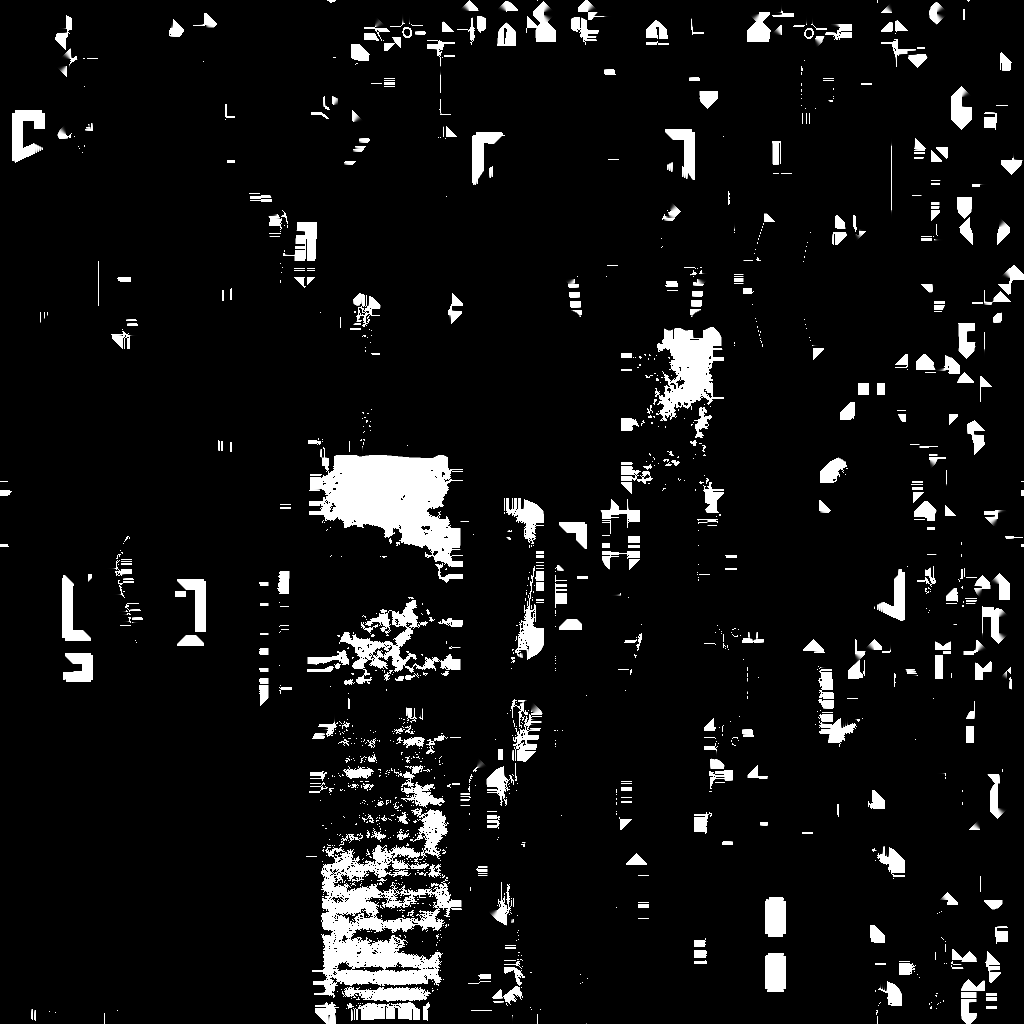
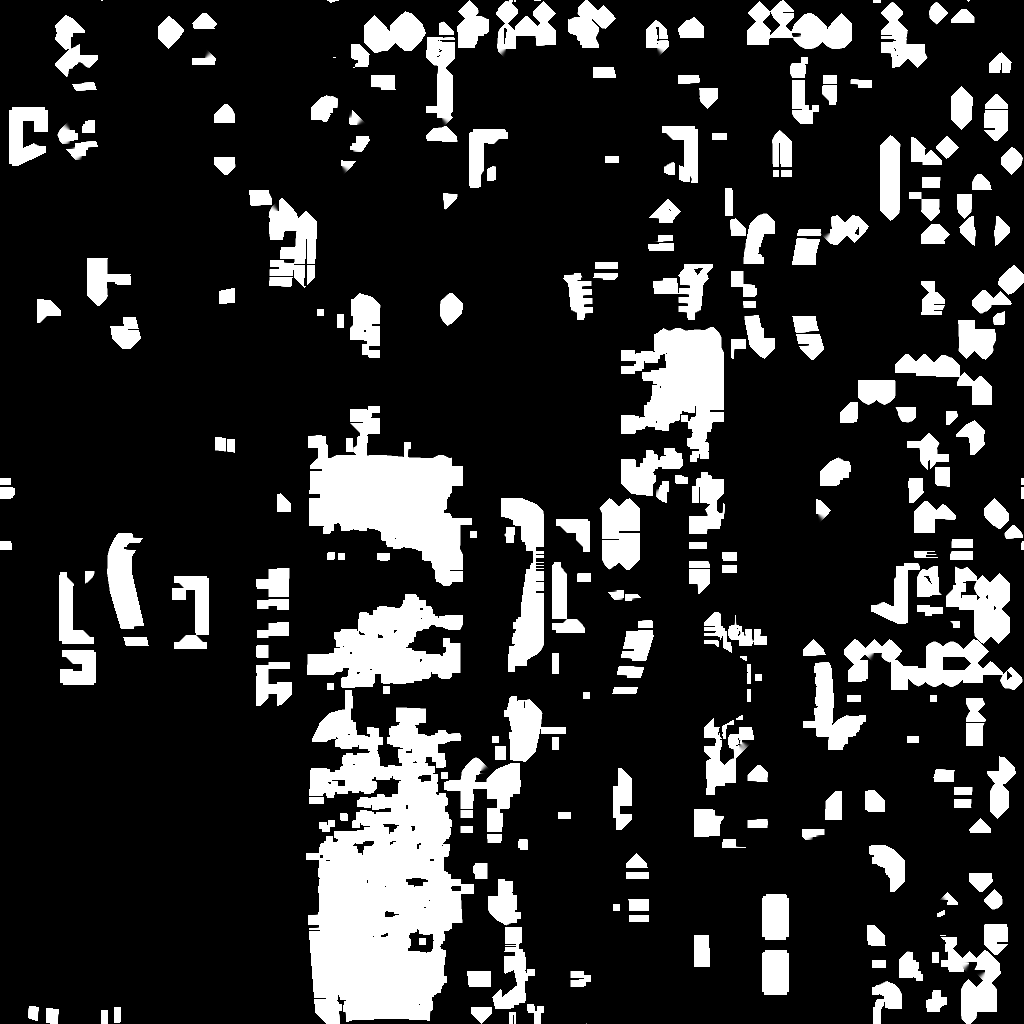
context: 11.10 — подготовка выпуска 0.4.0: смартфон, кнопки, слоты оружия, проверка цепочки заданий, маска облезлости УАЗа, освещение

diff --git a/assets/scientist_base/_work/uazkit_14_peel.py b/assets/scientist_base/_work/uazkit_14_peel.py
@@ -45,6 +45,39 @@ keep = panel & ~lamp & ~white & ~gap
 print('PEEL painted panels: %d of %d sheet-metal triangles (paint on at least %d %% of the face), %d of %d texels; left out as lamps %d, white marks %d, black gaps %d texels' % (
     int(panel_face.sum()), int((nop == 0).sum()), SHARE * 100, int(panel.sum()), int(sheet_m.sum()), int((panel & lamp & (alpha < 0.5)).sum()), int((panel & white & (alpha < 0.5)).sum()), int((panel & gap & (alpha < 0.5)).sum())))
 peel = np.where(keep, 1.0 - alpha, 0.0).astype(np.float32)
+# 11.10: the border of every peeled zone stayed visible at PaintPeel = 0 (light outline). The colour texture has a light rim of chipped paint
+# and a soft alpha edge around each zone, and the mask ended exactly on it. The mask is grown by GROW texels so that the rim is inside the zone.
+GROW = 3
+_bc = np.array(json.load(open(sb.WORK + '_uazkit_meta.json'))['body_color'])[:3]
+def _seam(pm, tag):
+    cur = rgb * (1.0 + (_bc[None, None] - 1.0) * alpha[..., None]); res0 = cur * (1 - pm[..., None]) + (_bc * 0.68)[None, None] * pm[..., None]
+    lum = res0.mean(2); ref = float(np.median(lum[panel & (alpha > 0.99)])); zone = panel & ~lamp & ~gap
+    near = np.zeros_like(panel)
+    for dy in range(-6, 7):
+        for dx in range(-6, 7):
+            near |= np.roll(peel > 0.5, (dy, dx), (0, 1))
+    band = zone & near
+    print('SEAM %s: at PaintPeel 0 median paint brightness %.3f; texels within 6 of a peeled zone %d, brighter than 1.4 x median %d, brighter than 1.8 x median %d; mean brightness there %.3f' % (
+        tag, ref, int(band.sum()), int((band & (lum > 1.4 * ref)).sum()), int((band & (lum > 1.8 * ref)).sum()), float(lum[band].mean())))
+    # the game samples smaller copies of the textures (mips) from the top-down camera: average blocks of texels and repeat the count
+    for lv in (1, 2, 3):
+        s = 2 ** lv; bx = lambda a: a.reshape(TEX // s, s, TEX // s, s, -1).mean((1, 3))
+        r_, a_, p_, z_ = bx(rgb), bx(alpha)[..., 0], bx(pm)[..., 0], bx(zone.astype(np.float32))[..., 0] > 0.999
+        for k in (1.0, 4.0):
+            q = np.clip(p_ * k, 0, 1); c_ = r_ * (1.0 + (_bc[None, None] - 1.0) * a_[..., None])
+            l_ = (c_ * (1 - q[..., None]) + (_bc * 0.68)[None, None] * q[..., None]).mean(2)
+            print('SEAM %s: copy 1/%d, mask gain %.0f: texels of painted panels %d, brighter than 1.4 x median %d, 1.8 x %d, brightest %.2f x' % (
+                tag, s, k, int(z_.sum()), int((z_ & (l_ > 1.4 * ref)).sum()), int((z_ & (l_ > 1.8 * ref)).sum()), float(l_[z_].max() / ref) if z_.any() else 0))
+_seam(peel, 'before')
+_g = peel.copy()
+for _ in range(GROW):
+    _n = _g.copy()
+    for dy in (-1, 0, 1):
+        for dx in (-1, 0, 1):
+            _n = np.maximum(_n, np.roll(_g, (dy, dx), (0, 1)))
+    _g = _n
+peel = np.where(panel & ~lamp & ~gap, _g, peel).astype(np.float32)
+_seam(peel, 'after grow %d' % GROW)
 other = other | (sheet_m & ~panel)
 sheet_all = sheet_m; sheet_m = panel
 # the same border padding as the colour texture has: no dark or light seams when the game samples between texels

diff --git a/scripts/ue-remote/uaz_peel_mask_1011_headless.py b/scripts/ue-remote/uaz_peel_mask_1011_headless.py
@@ -1,0 +1,11 @@
+import unreal
+eal = unreal.EditorAssetLibrary; at = unreal.AssetToolsHelpers.get_asset_tools(); mel = unreal.MaterialEditingLibrary
+D = '/Game/Environment/Props/UAZ452'
+t = unreal.AssetImportTask()
+for k, v in [('filename', 'E:/game-dev-team/assets/scientist_base/SM_UAZ452_kit/T_UAZ452Kit_Peel.png'), ('destination_path', D), ('destination_name', 'T_UAZ452Kit_Peel'), ('replace_existing', True), ('automated', True), ('save', False)]: t.set_editor_property(k, v)
+at.import_asset_tasks([t]); tex = unreal.load_asset(D + '/T_UAZ452Kit_Peel')
+tex.set_editor_property('srgb', True); tex.set_editor_property('compression_settings', unreal.TextureCompressionSettings.TC_DEFAULT)
+mi = unreal.load_asset(D + '/MI_UAZ452Kit')
+print('set', mel.set_material_instance_texture_parameter_value(mi, 'PeelMask', tex), mel.set_material_instance_scalar_parameter_value(mi, 'PaintBase', 0.68))
+mel.update_material_instance(mi)
+print('SAVE', eal.save_loaded_asset(tex, False), eal.save_loaded_asset(mi, False), 'mask', mel.get_material_instance_texture_parameter_value(mi, 'PeelMask').get_name(), 'peel', mel.get_material_instance_scalar_parameter_value(mi, 'PaintPeel'))

diff --git a/scripts/ue-remote/release_check_1011.py b/scripts/ue-remote/release_check_1011.py
@@ -1,0 +1,13 @@
+import unreal, glob
+out = []
+for p in ['/Game/System/BP_ContrarySurviorPlayerController']:
+    if unreal.EditorAssetLibrary.does_asset_exist(p):
+        c = unreal.load_object(None, p + '.' + p.split('/')[-1] + '_C'); d = unreal.get_default_object(c)
+        out.append('CTRL %s radius=%s gap=%s' % (p, d.get_editor_property('PdaTouchButtonRadius'), d.get_editor_property('PdaTouchButtonGap')))
+w = unreal.get_editor_subsystem(unreal.UnrealEditorSubsystem).get_editor_world()
+out.append('WORLD %s PIE %s' % (w.get_name(), unreal.get_editor_subsystem(unreal.LevelEditorSubsystem).is_in_play_in_editor()))
+for a in unreal.get_editor_subsystem(unreal.EditorActorSubsystem).get_all_level_actors():
+    if 'UAZ' in a.get_actor_label().upper() or 'УАЗ' in a.get_actor_label().upper():
+        try: out.append('UAZ %s peel=%s' % (a.get_actor_label(), a.get_editor_property('PaintPeel')))
+        except Exception as e: out.append('UAZ %s %s' % (a.get_actor_label(), e))
+print('\n'.join(out))

diff --git a/context/cpp-dev/context.md b/context/cpp-dev/context.md
@@ -3,23 +3,12 @@
 > Лёгкая рабочая память `cpp-dev` (правило H + Гигиена памяти из CLAUDE.md: стоп >150 строк, СЕЙЧАС вырезает прошлый). Закрытая история — в [archive.md](archive.md) (read-on-demand, НЕ для грунтовки). Build-логи — `Saved/` проекта, история — git.
 
 ## 🧭 СЕЙЧАС
-**2026-10-10 (вечер). Шлагбаум базы учёных (задача лида, слова Рината 10.10). Рабочая копия `E:/ContrarySurvior/ws-pda` (основную не трогать — у Рината открыт редактор), ветка `feature/barrier-1010` от `d8b53ef`, коммит `9e19df5`, не отправлен. Сборка редакторной цели без ошибок (`E:/game-dev-team/logs/build_barrier_1010_a.log`, EXIT=0), проверки 245 из 245 (`logs/tests_barrier_1010_full.log`; новые три `ContrarySurvivor.Barrier.*` — `logs/tests_barrier_1010_new.log`). Сохранение рабочей копии после полного прогона возвращено из копии, sha256 сошёлся. ИГРОВАЯ цель не собиралась; на уровне актор НЕ поставлен (уровни не мои) — брусок «ГБ_Шлагбаум» заменяет лид или оператор. Дальше — замечания лида и живая проверка Рината. Прошлая задача (сюжет, `feature/story-flow-1010`, `9b68cb8`) закрыта.**
-- **Облезлость краски УАЗа (третья задача вечера, ветка `fix/uaz-paint-1010` от `3bc488f`, коммит `8ed2948` — только автопроверка, код машины не менялся):** неисправность в коде НЕ найдена. Проба в своей копии (`logs/pie_probe_uazpaint_1010.txt`, `pie_probe2_…`): значение поля доходит до параметра `PaintPeel` динамического материала и в игре, запущенной из редактора, и после загрузки уровня с диска. В редакторе Рината у УАЗа на уровне 0.5088, уровень не сохранён, в записанном уровне 1.0, у чертежа 1.0 (`logs/uaz_read_uazpaint_1010_a.log`). Жду от лида, как именно Ринат запускает игру. Сборка `logs/build_uazpaint_1010_a.log` EXIT=0, проверки 251 из 251. **Приём:** игру в редакторе можно запустить без окна в своей копии — `-ExecCmds="py скрипт"`, в скрипте `register_slate_post_tick_callback`, `editor_request_begin_play`, чтение игрового мира через `UnrealEditorSubsystem.get_game_world()`, в конце `quit_editor` (скрипты `scripts/ue-remote/car_peel_pie_probe*_1010.py`); после пробы с записью уровня — `git checkout` карты.
-- **Реплики заданий (вторая задача вечера, коммит `5938cfc` поверх `9e19df5`):** внесены все 29 текстов «изменить» из `docs/contrary-survivor/dialogs-rewrite-1010.draft.md` (сверка `logs/dialogs_check_1010.txt`: 29 из 29), пять ячеек таблицы `DT_Quests` (выгрузка `logs/dt_quests_dialogs_1010.txt`, до правки — `…_before.txt`), сборка `logs/build_dialogs_1010_a.log` EXIT=0, проверки 245 из 245 (`logs/tests_dialogs_1010_full.log`). Чертежи персонажей своих текстов не держат (`logs/bp_texts_dialogs_1010.txt`: 22 совпадения, 0 различий). **Приём:** ячейки текста таблицы хранятся как `NSLOCTEXT("ns","ключ","текст")`; править через выгрузку и заливку JSON (`DataTableFunctionLibrary`), меняя только текст внутри, затем перечитать таблицу свежим запуском и сравнить с выгрузкой «до». Heredoc с кодом на perl с одинарными кавычками в Bash ломается — скрипты писать инструментом Write.
-- **Шлагбаум (`Actors/QuestBarrier.h`, `AQuestBarrier`):** правило — чистая `ShouldBeOpen(журнал, OpenWhenTakenQuestId, OpenWhenTurnedInQuestId)`; состояние из журнала героя (подписка на `OnQuestChanged` и новое `UQuestComponent::OnJournalRestored` — оно нужно, потому что при замене журнала ПУСТЫМ по-заданийное событие молчит; плюс сверка по таймеру `CheckInterval`, она же находит героя, появившегося позже). Преграда — `UBoxComponent` с `bDynamicObstacle` и областью `UNavArea_Null`: блокирует только Pawn и Vehicle, при открытии `NoCollision` и `SetCanEverAffectNavigation(false)`. Стрела — `BoomPivot` с отрицательным креном. Актор ставится в середину проезда на землю, ось Y — вдоль забора. Общие идентификаторы заданий — `ContraryQuestIds` в `QuestComponent.h`.
-- **Охранник:** `AScientistGuardNPC::BuildTalkView` дописывает первой фразой `LaptopPassText`, пока задание про ноутбук идёт (`IsCarryingLaptop`); при невзятом своём задании вместо описания идёт `LaptopPassOfferText`; при сданной рации реплика прежняя.
-- **Ожидание старосты:** после сценки про ноутбук `APlayerCharacter::MarkElderNotebookHintShown(сек)` пишет в сохранение признак сценки и отметку `ElderNotebookWaitEndPlayTime` (значение накопителя игрового времени, при котором ожидание кончается; меньше нуля = таймера нет, ждать нечего — так читаются старые сохранения). Копия признаков живёт в памяти героя (`IsElderNotebookHintShown`, `GetElderNotebookWaitRemaining`, `ReloadStoryStateFromSave`); все записи — только через героя. Длительность — поле старосты `NotebookWaitSeconds` (300). `TryUnlockThirdQuest` открывает третье задание только после конца ожидания; пока ждём, староста говорит прежнюю реплику `NotebookHintRepeatText`. Строка в списке заданий — `UQuestTrackerWidget` (`ElderWaitFormat`, `ElderWaitReadyText`, тот же текстовый блок, второй строкой под активным заданием); запасная рисованная строка экрана ожидание НЕ показывает.
-- **Меню отладки, раздел «Сюжет»:** `ContraryDebugTools::SetStoryElderOffersBanditQuest`, `SetStoryReadyToTurnInBanditLaptop`, `SkipElderNotebookWait`. Первая заодно возвращает базу бандитов к началу и стирает её запись из сохранения.
-- **Конец сюжета:** по коду сообщение планирует ТОЛЬКО `AQuestGiverNPC::OnTalkClosed` после приёма ноутбука квестовым учёным; страховка при загрузке смотрит журнал (`IsStoryEndingQuestTurnedIn`). Запись «по-прежнему после сценки» в прошлой памяти была неверной.
-- **⚠ Урок:** `LoadGameForContinue` на живом герое с вещами ЗАДВАИВАЕТ сумку (рассчитана на пустую сумку после запуска) — в проверках звать только на свежем герое либо сверять запись сохранения. `FMath::CeilToInt32(300.0f / 60.0f)` в этой сборке дал 6 — минуты считать целыми числами. В `perl s|…|…|` символ `\|` превращается в «или» — для текста с `||` брать `index/substr` или Edit.
-- **Задание расширено данными (`FQuest`, `Components/QuestComponent.h`):** `TurnInNpcTag` (кому сдавать; пусто = тому, кто выдал), `GiveOnAccept` и `RewardItems` (списки «строка таблицы предметов + число»), `TurnInHintText` (хвост строки на экране). `TurnInQuest(QuestId, ReceiverNpcTag)` отказывает, если метки не совпали; выдачу делает `APlayerCharacter::GiveItemFromRow` (патроны — числом, огнестрел — в сумку и без запаса класса). Нельзя выдать предмет — задание не берётся и не сдаётся. Те же поля добавлены в строку таблицы заданий.
-- **Собеседники (`Actors/TalkerNPC.h`):** `ATalkerNPC` (гуманоид, зона разговора, `NpcTag` — он же метка актора) отдаёт окну готовый вид `FNpcTalkView` через `BuildTalkView` и принимает основной ответ в `HandleTalkPrimary`; `AQuestGiverNPC` — своё задание и приём чужого. Окно то же (`UDialogScreenWidget::InitTalk`), признак тот же `bDialogOpen`, контроллер: `OpenTalk`, `SetNearbyTalker`, `EInteractKind::Talker`. Старого рисованного пути у собеседников НЕТ: без класса окна разговор не открывается.
-- **База учёных (`Actors/ScientistNPCs.h`):** `AScientistGuardNPC` (задание `FetchGuardRadio`, рация `guard_radio`, награда `shotgun_toz34` и 4 `ammo_12g`), `AScientistQuestNPC` (принимает ноутбук, потом заглушка), `AScientistHelmetNPC` (реклама за монеты: место показа `scientist_helmet`, серия — `Ads/AdSeriesLogic.h`, 3 подряд и 4 минуты), `AScientistTrader` (свой список товаров). Метки — `ScientistBaseTags`. Предмет задания на уровне — `Actors/QuestItemSpawner.h` (сам кладёт мешок, сверяется с журналом и сумкой раз в секунду).
-- **⛔ Реклама у учёного на телефоне:** общий рекламный блок в боевом конфиге демонстрационный НАМЕРЕННО (издатель запретил один блок на несколько точек), поэтому точке нужен свой блок `AdUnitIdScientistHelmet` в `Config/DefaultEngine.ini` (файл лида, не трогаю). Пока его нет — учёный говорит «прибор не готов» (`IAdService::IsRewardedReadyFor`). В редакторе работает заглушка.
-- **Запас патронов при стволе** пишется в запись сохранения (`FSavedInventoryEntry::WeaponReserveAmmo`, меньше нуля = старая запись, для неё прежний перенос в сумку один раз) — «Продолжить» больше не дарит патроны; то же в сундуке.
-- **Добавка в тот же заход сборки (Ринат 10.10): «облезлость краски» машины** — `AAbandonedCar::PaintPeel` (0..1, по умолчанию 1) и `PaintPeelParamName` («PaintPeel»), пишется скалярным параметром в материалы кузова, дверей, капота и багажника внутри `ApplyPartColor`, независимо от перекраски; колёсам не идёт; при 1 без перекраски динамический материал не создаётся; у материала без такого параметра поле не действует. Параметр в `M_CarTripo` заводит лид. Включить в итоговый отчёт этапа 2, отдельным сообщением не слать.
-- **Не сделано и сказано лиду:** на экране отслеживается только первое активное задание журнала; выброшенный или убранный в сундук предмет задания раскладчик положит заново.
-- **Устройство двустволки, сундука и меню отладки (09.10)** — в `archive.md`, раздел «Двустволка, личный сундук, меню отладки (09–10.10.2026)».
+**2026-10-11. Доводка до выкладки без Рината (задача лида). Копия `E:/ContrarySurvior/ws-weapons`, ветка `feature/pda-phone-1010` (в неё влита `feature/session3-1010`), коммиты `f840f72` (картинки смартфона и настройки), `afc60df` (экранные кнопки и слоты оружия в сумке), `3187101` (телепорт «перед шлагбаумом» и сквозная проверка заданий); не отправлено, в master не влито. Сборка редакторной цели без ошибок (`logs/build_ship_1011_a.log`, `_b`, `_c`, все EXIT=0), проверки 256 из 256 (`logs/tests_ship_1011_full.log`), сохранение копии после прогона возвращено, sha256 сошёлся. Дополнение окон: `logs/wbp_augment_ship_1011_1.log` (сохранено 3) и `_2.log` (сохранено 0), раскладка после — `logs/dumpslots_ship_1011_after.log`. ИГРОВАЯ цель (телефон) не собиралась; живой вид не смотрел никто — смотрит Ринат. Дальше — замечания лида.**
+- **Сделано 11.10:** картинки `T_PdaPhone`, `T_PdaButtonIcon` в `/Game/UI/Textures` (скрипт `scripts/ue-remote/pda_phone_import_1011.py`, сжатие как у карты — `pda_phone_check_1011.py`), три строки в `Config/DefaultGame.ini`. Кнопка ножа 130 в (−320, −300) от правого нижнего угла, бег переставлен в (−470, −300), радиус кнопки смартфона 65 (`PdaTouchButtonRadius`), строка задания опущена до 212 сверху (`AugmentTouchMeleeButtonComfort`, `AugmentQuestTrackerBelowBag`). В сумке рамки `RangedSlotFrame`, `LongSlotFrame`, `MeleeSlotFrame` (кисть кнопки «Голова»), названия оружия в ширину колонки кеглем 15 с переносом, подложка сдвинута на X=364 (`AugmentInventoryWeaponSlotFrames`), новый текст `EmptyMeleeSlotText`. Телепорт: `FContraryDebugTeleportPoint::bExact`, `TeleportPawnNear(…, bExactFirst)`, точка считается от `AQuestBarrier` и ближайшего `AScientistGuardNPC`. Проверки: `Tests/UiComfortAutomationTests.cpp`, `ContrarySurvivor.Story.WholeChainIsPassableWithoutFights` (в `ScientistBaseAutomationTests.cpp`).
+- **Доводка 11.10 (вечер), коммит `0f67f8f`:** смартфон вставал квадратом, потому что `GetSizeX()` в редакторе в первый кадр после загрузки отдаёт размер заглушки 32 на 32; теперь пропорции берутся через `PdaMap::GetPictureSize` (исходный размер картинки). Значок кнопки обрезан до 254 на 136, доля 0,85. Проба живого окна: `scripts/ue-remote/pda_phone_pie_probe_1011.py` (редактор с графикой за кадром: `UnrealEditor.exe … -RenderOffscreen`, без `-nullrhi` — иначе окна не тикают; консольная команда `QaShowPda`), журнал `logs/pie_probe_phone_1011_after.log`. Сборка `logs/build_phonefix_1011_b.log`, проверки 257 из 257 (`logs/tests_phonefix_1011_full.log`). В питоне редактора нет `WidgetBlueprintLibrary` — окно из скрипта не создать.
+- **Факты уровня 11.10 (`logs/quest_level_dump_1011.log`, скрипт `quest_level_dump_1011.py`):** метка телепорта учёных (7700, −16040) — внутри базы (забор входа по X=7378, внутри X больше); шлагбаум (7378, −16040), охранник (7250, −15740) снаружи; метки целей баз `WolfDen`, `WolfDen2`, `BanditBase`, место рации `GuardRadioSpot` — у всех четырёх заданий цель на уровне есть.
+- **Не сделано и сказано лиду:** `BuildInventory` (окно сумки с нуля) рамок не строит — они ставятся дополнением; задвоение сумки при `LoadGameForContinue` в обычной игре недостижимо (пауза и главное меню уводят на загрузочный уровень, герой там свежий; запасной путь — только если стёрт `BootLevelPath`), не чинилось. Переопределён ли радиус кнопки смартфона в чертеже контроллера — НЕ ПРОВЕРЕНО.
+- **⚠ Уроки 11.10:** `UTexture2D::GetSizeX()` в прогоне без графики сразу после загрузки отдаёт 0 (картинка ещё готовится) — размер в проверках не сверять; heredoc в Bash ломается и на кавычках внутри кода C++ — файлы всегда писать инструментом записи; `Build.bat` звать как `./Build.bat` из его папки, не через `cmd /c`.
 - **Приём:** `python` в оболочке нет; окончания строк в исходниках СМЕШАННЫЕ (часть файлов CRLF, часть LF) — править инструментом Edit либо `perl` с приведением к LF на время правки; проверять окончания `perl`-подсчётом `\r\n`, а не `grep $'\r'` (в этой оболочке не работает). Heredoc с русским текстом в Bash ломается только без кавычек у метки.
 
 **ПРЕДЫДУЩАЯ ВОЛНА (мои части вынесены в `archive.md` → «Волна Report1-хвостов + телефонный пак (24.08)»; блок оставлен целиком, потому что в нём работает ПАРАЛЛЕЛЬНЫЙ экземпляр cpp-dev — окна поддержки/согласия, `3ab82f9`. Чужие строки не резать):**

diff --git a/context/cpp-dev/archive.md b/context/cpp-dev/archive.md
@@ -792,3 +792,23 @@ ADR-076 пп.4,5,10: `359991c` музыка с логотипа (гейт ApplyM
 - **Лиду в редакторе:** чертёж ружья от `AShotgun`, строки `shotgun_toz34` и `ammo_12g` (колонка старого ключа ПУСТАЯ), звук — в «Звуки выстрела (вариации)» чертежа.
 - **Приём:** `python` в оболочке нет; длинные правки — файл пар через Write + `perl` с сохранением окончаний строк, либо инструмент Edit; heredoc с русским текстом в Bash ломается.
 
+
+## Снято с живой памяти 11.10.2026 (сессии 10.10: шлагбаум, реплики, УАЗ, сюжет, база учёных)
+
+**2026-10-10 (вечер). Шлагбаум базы учёных (задача лида, слова Рината 10.10). Рабочая копия `E:/ContrarySurvior/ws-pda` (основную не трогать — у Рината открыт редактор), ветка `feature/barrier-1010` от `d8b53ef`, коммит `9e19df5`, не отправлен. Сборка редакторной цели без ошибок (`E:/game-dev-team/logs/build_barrier_1010_a.log`, EXIT=0), проверки 245 из 245 (`logs/tests_barrier_1010_full.log`; новые три `ContrarySurvivor.Barrier.*` — `logs/tests_barrier_1010_new.log`). Сохранение рабочей копии после полного прогона возвращено из копии, sha256 сошёлся. ИГРОВАЯ цель не собиралась; на уровне актор НЕ поставлен (уровни не мои) — брусок «ГБ_Шлагбаум» заменяет лид или оператор. Дальше — замечания лида и живая проверка Рината. Прошлая задача (сюжет, `feature/story-flow-1010`, `9b68cb8`) закрыта.**
+- **Облезлость краски УАЗа (третья задача вечера, ветка `fix/uaz-paint-1010` от `3bc488f`, коммит `8ed2948` — только автопроверка, код машины не менялся):** неисправность в коде НЕ найдена. Проба в своей копии (`logs/pie_probe_uazpaint_1010.txt`, `pie_probe2_…`): значение поля доходит до параметра `PaintPeel` динамического материала и в игре, запущенной из редактора, и после загрузки уровня с диска. В редакторе Рината у УАЗа на уровне 0.5088, уровень не сохранён, в записанном уровне 1.0, у чертежа 1.0 (`logs/uaz_read_uazpaint_1010_a.log`). Жду от лида, как именно Ринат запускает игру. Сборка `logs/build_uazpaint_1010_a.log` EXIT=0, проверки 251 из 251. **Приём:** игру в редакторе можно запустить без окна в своей копии — `-ExecCmds="py скрипт"`, в скрипте `register_slate_post_tick_callback`, `editor_request_begin_play`, чтение игрового мира через `UnrealEditorSubsystem.get_game_world()`, в конце `quit_editor` (скрипты `scripts/ue-remote/car_peel_pie_probe*_1010.py`); после пробы с записью уровня — `git checkout` карты.
+- **Реплики заданий (вторая задача вечера, коммит `5938cfc` поверх `9e19df5`):** внесены все 29 текстов «изменить» из `docs/contrary-survivor/dialogs-rewrite-1010.draft.md` (сверка `logs/dialogs_check_1010.txt`: 29 из 29), пять ячеек таблицы `DT_Quests` (выгрузка `logs/dt_quests_dialogs_1010.txt`, до правки — `…_before.txt`), сборка `logs/build_dialogs_1010_a.log` EXIT=0, проверки 245 из 245 (`logs/tests_dialogs_1010_full.log`). Чертежи персонажей своих текстов не держат (`logs/bp_texts_dialogs_1010.txt`: 22 совпадения, 0 различий). **Приём:** ячейки текста таблицы хранятся как `NSLOCTEXT("ns","ключ","текст")`; править через выгрузку и заливку JSON (`DataTableFunctionLibrary`), меняя только текст внутри, затем перечитать таблицу свежим запуском и сравнить с выгрузкой «до». Heredoc с кодом на perl с одинарными кавычками в Bash ломается — скрипты писать инструментом Write.
+- **Шлагбаум (`Actors/QuestBarrier.h`, `AQuestBarrier`):** правило — чистая `ShouldBeOpen(журнал, OpenWhenTakenQuestId, OpenWhenTurnedInQuestId)`; состояние из журнала героя (подписка на `OnQuestChanged` и новое `UQuestComponent::OnJournalRestored` — оно нужно, потому что при замене журнала ПУСТЫМ по-заданийное событие молчит; плюс сверка по таймеру `CheckInterval`, она же находит героя, появившегося позже). Преграда — `UBoxComponent` с `bDynamicObstacle` и областью `UNavArea_Null`: блокирует только Pawn и Vehicle, при открытии `NoCollision` и `SetCanEverAffectNavigation(false)`. Стрела — `BoomPivot` с отрицательным креном. Актор ставится в середину проезда на землю, ось Y — вдоль забора. Общие идентификаторы заданий — `ContraryQuestIds` в `QuestComponent.h`.
+- **Охранник:** `AScientistGuardNPC::BuildTalkView` дописывает первой фразой `LaptopPassText`, пока задание про ноутбук идёт (`IsCarryingLaptop`); при невзятом своём задании вместо описания идёт `LaptopPassOfferText`; при сданной рации реплика прежняя.
+- **Ожидание старосты:** после сценки про ноутбук `APlayerCharacter::MarkElderNotebookHintShown(сек)` пишет в сохранение признак сценки и отметку `ElderNotebookWaitEndPlayTime` (значение накопителя игрового времени, при котором ожидание кончается; меньше нуля = таймера нет, ждать нечего — так читаются старые сохранения). Копия признаков живёт в памяти героя (`IsElderNotebookHintShown`, `GetElderNotebookWaitRemaining`, `ReloadStoryStateFromSave`); все записи — только через героя. Длительность — поле старосты `NotebookWaitSeconds` (300). `TryUnlockThirdQuest` открывает третье задание только после конца ожидания; пока ждём, староста говорит прежнюю реплику `NotebookHintRepeatText`. Строка в списке заданий — `UQuestTrackerWidget` (`ElderWaitFormat`, `ElderWaitReadyText`, тот же текстовый блок, второй строкой под активным заданием); запасная рисованная строка экрана ожидание НЕ показывает.
+- **Меню отладки, раздел «Сюжет»:** `ContraryDebugTools::SetStoryElderOffersBanditQuest`, `SetStoryReadyToTurnInBanditLaptop`, `SkipElderNotebookWait`. Первая заодно возвращает базу бандитов к началу и стирает её запись из сохранения.
+- **Конец сюжета:** по коду сообщение планирует ТОЛЬКО `AQuestGiverNPC::OnTalkClosed` после приёма ноутбука квестовым учёным; страховка при загрузке смотрит журнал (`IsStoryEndingQuestTurnedIn`). Запись «по-прежнему после сценки» в прошлой памяти была неверной.
+- **⚠ Урок:** `LoadGameForContinue` на живом герое с вещами ЗАДВАИВАЕТ сумку (рассчитана на пустую сумку после запуска) — в проверках звать только на свежем герое либо сверять запись сохранения. `FMath::CeilToInt32(300.0f / 60.0f)` в этой сборке дал 6 — минуты считать целыми числами. В `perl s|…|…|` символ `\|` превращается в «или» — для текста с `||` брать `index/substr` или Edit.
+- **Задание расширено данными (`FQuest`, `Components/QuestComponent.h`):** `TurnInNpcTag` (кому сдавать; пусто = тому, кто выдал), `GiveOnAccept` и `RewardItems` (списки «строка таблицы предметов + число»), `TurnInHintText` (хвост строки на экране). `TurnInQuest(QuestId, ReceiverNpcTag)` отказывает, если метки не совпали; выдачу делает `APlayerCharacter::GiveItemFromRow` (патроны — числом, огнестрел — в сумку и без запаса класса). Нельзя выдать предмет — задание не берётся и не сдаётся. Те же поля добавлены в строку таблицы заданий.
+- **Собеседники (`Actors/TalkerNPC.h`):** `ATalkerNPC` (гуманоид, зона разговора, `NpcTag` — он же метка актора) отдаёт окну готовый вид `FNpcTalkView` через `BuildTalkView` и принимает основной ответ в `HandleTalkPrimary`; `AQuestGiverNPC` — своё задание и приём чужого. Окно то же (`UDialogScreenWidget::InitTalk`), признак тот же `bDialogOpen`, контроллер: `OpenTalk`, `SetNearbyTalker`, `EInteractKind::Talker`. Старого рисованного пути у собеседников НЕТ: без класса окна разговор не открывается.
+- **База учёных (`Actors/ScientistNPCs.h`):** `AScientistGuardNPC` (задание `FetchGuardRadio`, рация `guard_radio`, награда `shotgun_toz34` и 4 `ammo_12g`), `AScientistQuestNPC` (принимает ноутбук, потом заглушка), `AScientistHelmetNPC` (реклама за монеты: место показа `scientist_helmet`, серия — `Ads/AdSeriesLogic.h`, 3 подряд и 4 минуты), `AScientistTrader` (свой список товаров). Метки — `ScientistBaseTags`. Предмет задания на уровне — `Actors/QuestItemSpawner.h` (сам кладёт мешок, сверяется с журналом и сумкой раз в секунду).
+- **⛔ Реклама у учёного на телефоне:** общий рекламный блок в боевом конфиге демонстрационный НАМЕРЕННО (издатель запретил один блок на несколько точек), поэтому точке нужен свой блок `AdUnitIdScientistHelmet` в `Config/DefaultEngine.ini` (файл лида, не трогаю). Пока его нет — учёный говорит «прибор не готов» (`IAdService::IsRewardedReadyFor`). В редакторе работает заглушка.
+- **Запас патронов при стволе** пишется в запись сохранения (`FSavedInventoryEntry::WeaponReserveAmmo`, меньше нуля = старая запись, для неё прежний перенос в сумку один раз) — «Продолжить» больше не дарит патроны; то же в сундуке.
+- **Добавка в тот же заход сборки (Ринат 10.10): «облезлость краски» машины** — `AAbandonedCar::PaintPeel` (0..1, по умолчанию 1) и `PaintPeelParamName` («PaintPeel»), пишется скалярным параметром в материалы кузова, дверей, капота и багажника внутри `ApplyPartColor`, независимо от перекраски; колёсам не идёт; при 1 без перекраски динамический материал не создаётся; у материала без такого параметра поле не действует. Параметр в `M_CarTripo` заводит лид. Включить в итоговый отчёт этапа 2, отдельным сообщением не слать.
+- **Не сделано и сказано лиду:** на экране отслеживается только первое активное задание журнала; выброшенный или убранный в сундук предмет задания раскладчик положит заново.
+- **Устройство двустволки, сундука и меню отладки (09.10)** — в `archive.md`, раздел «Двустволка, личный сундук, меню отладки (09–10.10.2026)».

diff --git a/context/game-lead/context.md b/context/game-lead/context.md
@@ -3,26 +3,21 @@
 > Персональная (живая) память агента `game-lead`. Грунтовка сессии — ТОЛЬКО блок «🧭 СЕЙЧАС» ниже (правило bootstrap CLAUDE.md). Прошлое — `archive.md` (read-on-demand). Решения — `docs/decisions.md` (ADR). История — git. Дизайн-правда — `docs/contrary-survivor/`.
 > СТОП-правило гигиены: >150 строк ИЛИ Read обрезается → СНАЧАЛА чистка (вынос закрытого в archive.md, удаление перетёртого), потом работа. Дистилляция ВЫРЕЗАЕТ прошлый «СЕЙЧАС», не только дописывает.
 
-## 🧭 СЕЙЧАС (2026-10-10, третья сессия — шлагбаум, слот длинного оружия, новые реплики, рисованная карта с открытием по мере исследования: слито в `feature/session3-1010`, ждёт живого осмотра Рината; редактор открыт мной на этой ветке)
+## 🧭 СЕЙЧАС (2026-10-11 — подготовка выпуска 0.4.0 (8): всё слито в `feature/session3-1010`, редактор открыт мной для осмотра Рината, сборка под телефон ОСТАНОВЛЕНА по его слову)
 
-**▶▶▶ Игра: ветка `feature/session3-1010`, вершина `3bc488f` (от `feature/story-flow-1010` `d8b53ef`), на сервере. В неё слиты `feature/barrier-1010` (`5938cfc`) и `feature/inventory-slot-1010` (`4bed730`). Проверка qa на слитой ветке: сборка без ошибок (`logs/build_session3_1010.log`), 250 автопроверок из 250 (`logs/tests_session3_1010_full.log`), проверки карты с отрисовкой 12 из 12, дополнение окон «сохранено 0», таблица заданий с новыми текстами. В master не влито, сборки под телефон нет, вживую НИКТО НЕ СМОТРЕЛ.**
-- **Шлагбаум:** класс `AQuestBarrier` (`Actors/QuestBarrier.*`), стоит на уровне в (7378, −16040, 0) вместо бруска «ГБ_Шлагбаум»; открыт, если задание `DeliverLaptopToScientists` принято ИЛИ `FetchGuardRadio` сдано; состояние считается из журнала заданий, в сохранение не пишется. Сетки стойки и стрелы — движковый куб (Ринат может назначить свои). Охранник переставлен наружу к проезду (7250, −15740): изнутри до него было не дотянуться (радиус разговора 220). Ширина проезда 500 выведена, не измерена.
-- **Слот длинного оружия:** в окне сумки в колонке «ОРУЖИЕ» под пистолетом, того же размера; нож ниже; пустой слот «Ружьё — пусто». Схемы — `assets/inventory_layout_1010/`. Кнопка «КПК» ставится слева от кнопки сумки от её фактического места.
-- **Реплики:** Ринат утвердил `docs/contrary-survivor/dialogs-rewrite-1010.draft.md` целиком и все пять предложений из него (в т.ч. герой сам ушёл из столицы и всё помнит — «Потому и ушёл.»); 29 текстов внесены в код и в таблицу `DT_Quests`. Большой черновик сюжета из шести глав (`story-proposal.draft.md`) я утверждённым НЕ считаю — Ринат не возразил и не подтвердил. В старом сохранении у взятых и сданных заданий остаются прежние тексты.
-- **Карта КПК:** картинка от ChatGPT, утверждена Ринатом (`assets/pda_map_chatgpt/карта_от_chatgpt.png`; запрос и схема там же). Подогнана под координаты уровня по 16 опорным точкам (`assets/pda_map_chatgpt/_work/warp.py`, `points.json`; numpy и Pillow ставил во временную папку сессии через `pip --target`), обрезана до области картинки; углы в `DefaultGame.ini`: левый-верхний (24680.3, 12658.8), правый-нижний (−14435.6, −26205.3) — карта меньше игровой зоны, стрелка героя прижимается к краю.
-- **Открытие карты:** сетка 128×128, герой открывает круг 1750 (самая дальняя видимая точка экрана 20:9), деревня открыта с начала (круг 3000), чернота мягкой маской, пишется в сохранение, подписи мест появляются на открытом; цель отслеживаемого задания видна и на черноте (галочка в настройках); в меню отладки раздел «Карта». Настройки — Project Settings → «Contrary Survivor: КПК и карта». Заметки — `context/cpp-dev/notes-map-fog-1010.md`.
-- **Остальное от второй сессии 10.10** (меню отладки «Сюжет», ожидание у старосты 300 с, два слота оружия и кнопка ножа, КПК на клавише M) — в git и ADR, принято Ринатом.
-- **Рабочие копии** `E:/ContrarySurvior/ws-weapons` и `ws-pda` не удалены. Полный прогон автопроверок перезаписывает сохранение игрока — перед прогоном копия, после — возврат.
-- **Замечено, не чинилось:** строка задания в две строки может касаться кнопок сумки и «КПК»; подложка окна сумки на 16:9 выходит за правый край на 17; длинные названия оружия заходят на край рюкзака; `LoadGameForContinue` на герое с непустой сумкой задваивает вещи; GDD ч.5 ставит логово и бандитов не там, где они в игре.
+**Задание Рината 11.10:** довести до состояния «можно выкладывать»; визуал он смотрит сам (мне — в самом конце, не более двух заходов); токены экономить (подписка PRO).
+**Игра: `feature/session3-1010` = `0f67f8f`, на сервере.** Внутри: правки уровня Рината (`266d8ed`), маска облезлости УАЗа (`2a29120`), ветка `feature/pda-phone-1010` (окно смартфона с вкладками «Задания» и «Карта», кнопки ножа и смартфона 130 без перекрытий, рамки слотов оружия в сумке, вторая кнопка телепорта «перед шлагбаумом», сквозная проверка цепочки заданий), пересчитанное освещение (`775d533`, непостроенных 0), версия 0.4.0 (8) (`92535cf`), исправление узкого смартфона и мелкого значка (`0f67f8f`).
+**Подтверждения:** qa «добро» на `3187101` — `logs/qa_build_pdaphone_1011.log` (0), `logs/qa_tests_pdaphone_1011.log` (256 из 256); исправление `0f67f8f` — `logs/tests_phonefix_1011_full.log` (257 из 257), просмотрено мной; сборка редактора основной копии `logs/build_release_1011_main_b.log` (0).
+- **Узкий смартфон — причина:** пропорции брались из размера картинки в первый кадр (заглушка 32×32); теперь из размера при заведении в проект (`GetImportedSize`, в собранной игре тоже есть).
+- **УАЗ:** светлая кайма по границам облезлых зон — от смешения соседних точек на уменьшенных копиях текстуры; маска расширена на 3 точки (`assets/scientist_base/_work/uazkit_14_peel.py`, замер до и после — `_uazkit_peel_1011.log`). Глазами НЕ ПРОВЕРЕНО.
+- **Сборочная копия** `pack-android` стоит на `92535cf` (надо перевести на вершину ветки), в ней пароли и версия 8. Команда — первая строка `pack-android/pack_031b_shipping.log`, каталог `ArchivedBuilds/0.4.0-build8`, журнал `pack_040_shipping.log` (первая попытка прервана мной). Запускать фоном; редактор Рината НЕ закрывать без спроса (11.10 закрыл его посреди игры — ошибка).
+- **НЕ ПРОВЕРЕНО:** живой вид всего нового; жесты на карте; проходимость ногами; сборка под телефон; в master не влито.
+- **Сеть:** `curl` запрещён в `.claude/settings.json` (deny), 11.10 Ринат снимал запрет на время поиска и велел вернуть — возвращён. Поиск GitHub: набор Epic требует дополнения, которого нет в 5.5; `quodsoler/unreal-engine-skills` и Unreal-часть `awesome-gamedev-agent-skills` — под 5.8; ничего не ставил.
+- **Местное, не коммитить:** в `Config/DefaultEngine.ini` основной копии пароли подписи и строка `AdUnitIdScientistHelmet=` (чья — не выяснял).
 
+**После выпуска (слова Рината 11.10):** (1) подготовить переход с GameAnalytics на Яндекс AppMetrica (`appmetrica/appmetrica-sdk-android`, выгрузка `yandexmobile/appmetrica-logsapi-loader`; дополнения для Unreal нет; цена, ограничения и требования издателя НЕ ПРОВЕРЕНЫ — сначала доложить, потом подключать); (2) сделать свои навыки: «сборка под телефон и выпуск в RuStore», «загрузка модели в проект», «прогон автопроверок»; (3) Ринат спросил про стилизацию кнопок и шрифтов — предложено: около восьми растягиваемых подложек от ChatGPT в стиле корпуса смартфона и два бесплатных шрифта с кириллицей; ответа нет.
 
-**⏸ НЕ ЗАКОНЧЕНО на конец третьей сессии 10.10 (закрыта по лимиту):**
-- Игра: `feature/session3-1010` = `8450aad` на сервере (принято Ринатом вживую: шлагбаум, слот оружия, реплики, карта с открытием; последний коммит — его уровень из редактора). Редактор оставлен открытым.
-- Окно смартфона (крупнее, кнопки «+» и «−», щипок, подложка, значок вместо «КПК»): ветка `feature/pda-phone-1010` = `e0c51c8`, копия `ws-weapons`, НЕЗАВЕРШЕНО, НЕ СОБРАНО, НЕ ПРОВЕРЕНО; постановка — в моих сообщениях программисту, картинки и отступы экрана — `assets/pda_phone_chatgpt/` (`T_PdaPhone.png` 1536×824, отступы 0,0911; 0,1165; 0,0788; 0,1274; `T_PdaButtonIcon.png`). Заметки программиста, если успел: `context/cpp-dev/notes-pda-phone-1010.md`.
-- Облезлость краски УАЗа: неисправность в коде НЕ найдена (`context/cpp-dev/notes-uaz-paint-1010.md`, ветка `fix/uaz-paint-1010` = `8ed2948`, только автопроверка, не слита). Ждёт ответа Рината: где меняет значение (машина на уровне или чертёж) и как смотрит игру.
-
-**Следующий шаг:** осмотр Рината в редакторе (шлагбаум с ноутбуком и без, карта на M, окно сумки, реплики в новой игре) → правки → сборка под телефон → qa-гейт и master.
-
+**Следующий шаг:** Ринат смотрит в редакторе → правки → по его слову сборка под телефон 0.4.0 (8) → установка → qa-гейт и master.
 
 **(первая сессия 10.10 — ниже)**
 

diff --git a/context/game-lead/archive.md b/context/game-lead/archive.md
@@ -675,3 +675,29 @@ F1 debug-камера, F2 GiveTestItems, F3/F4 броня вкл/выкл, F6 us
 **cpp п.2 (24.09):** код без прошитых картинок закоммичен мной как WIP `860deb5` и выложен (сборка 0 `Saved/build-items-icons-0924-b.log`, тесты НЕ прогонялись). НЕ СДЕЛАНО: пересохранение BP_Ammo9mm/BP_Knife/BP_Pistol (служебный запуск движка PID 21640 + CrashReportClientEditor 21140 завис с 23:06; снять cpp не дали права — вопрос к Ринату; память забил llama-server Рината), затем полный прогон тестов с копией сохранения. Текущие версии трёх чертежей cpp закоммитил как WIP `95e2e45` (выложено), пустая картинка в них НЕ подтверждена — после пересохранения закоммитить заново. Скрипты cpp: resave_bp_icons.py, readback_bp_icons.py (временная папка cpp). Запасную картинку при ненайденной таблице НЕ добавляли. убрать прошитые картинки в конструкторах AAmmoItem/AMeleeWeapon/APistol/AArmorTiers и AQuestItem::GetItemIcon; пересохранить BP_Ammo9mm/BP_Knife/BP_Pistol (они сейчас висят незакоммиченными пересохранениями от unreal — откатывать мне/агентам запрещено) и закоммитить с кодом.
[1 lines of base64/hex data omitted]
 **Дальше:** qa-гейт ветки (сборка с нуля + тесты + сверка сохранения) → приёмка Ринатом живьём (иконки в инвентаре/магазине, мешки, машины, труп бандита) → слияние по его слову.
+
+## Архив: блок «СЕЙЧАС» третьей сессии 10.10 (вынесен 11.10)
+## 🧭 СЕЙЧАС (2026-10-10, третья сессия — шлагбаум, слот длинного оружия, новые реплики, рисованная карта с открытием по мере исследования: слито в `feature/session3-1010`, ждёт живого осмотра Рината; редактор открыт мной на этой ветке)
+
+**▶▶▶ Игра: ветка `feature/session3-1010`, вершина `3bc488f` (от `feature/story-flow-1010` `d8b53ef`), на сервере. В неё слиты `feature/barrier-1010` (`5938cfc`) и `feature/inventory-slot-1010` (`4bed730`). Проверка qa на слитой ветке: сборка без ошибок (`logs/build_session3_1010.log`), 250 автопроверок из 250 (`logs/tests_session3_1010_full.log`), проверки карты с отрисовкой 12 из 12, дополнение окон «сохранено 0», таблица заданий с новыми текстами. В master не влито, сборки под телефон нет, вживую НИКТО НЕ СМОТРЕЛ.**
+- **Шлагбаум:** класс `AQuestBarrier` (`Actors/QuestBarrier.*`), стоит на уровне в (7378, −16040, 0) вместо бруска «ГБ_Шлагбаум»; открыт, если задание `DeliverLaptopToScientists` принято ИЛИ `FetchGuardRadio` сдано; состояние считается из журнала заданий, в сохранение не пишется. Сетки стойки и стрелы — движковый куб (Ринат может назначить свои). Охранник переставлен наружу к проезду (7250, −15740): изнутри до него было не дотянуться (радиус разговора 220). Ширина проезда 500 выведена, не измерена.
+- **Слот длинного оружия:** в окне сумки в колонке «ОРУЖИЕ» под пистолетом, того же размера; нож ниже; пустой слот «Ружьё — пусто». Схемы — `assets/inventory_layout_1010/`. Кнопка «КПК» ставится слева от кнопки сумки от её фактического места.
+- **Реплики:** Ринат утвердил `docs/contrary-survivor/dialogs-rewrite-1010.draft.md` целиком и все пять предложений из него (в т.ч. герой сам ушёл из столицы и всё помнит — «Потому и ушёл.»); 29 текстов внесены в код и в таблицу `DT_Quests`. Большой черновик сюжета из шести глав (`story-proposal.draft.md`) я утверждённым НЕ считаю — Ринат не возразил и не подтвердил. В старом сохранении у взятых и сданных заданий остаются прежние тексты.
+- **Карта КПК:** картинка от ChatGPT, утверждена Ринатом (`assets/pda_map_chatgpt/карта_от_chatgpt.png`; запрос и схема там же). Подогнана под координаты уровня по 16 опорным точкам (`assets/pda_map_chatgpt/_work/warp.py`, `points.json`; numpy и Pillow ставил во временную папку сессии через `pip --target`), обрезана до области картинки; углы в `DefaultGame.ini`: левый-верхний (24680.3, 12658.8), правый-нижний (−14435.6, −26205.3) — карта меньше игровой зоны, стрелка героя прижимается к краю.
+- **Открытие карты:** сетка 128×128, герой открывает круг 1750 (самая дальняя видимая точка экрана 20:9), деревня открыта с начала (круг 3000), чернота мягкой маской, пишется в сохранение, подписи мест появляются на открытом; цель отслеживаемого задания видна и на черноте (галочка в настройках); в меню отладки раздел «Карта». Настройки — Project Settings → «Contrary Survivor: КПК и карта». Заметки — `context/cpp-dev/notes-map-fog-1010.md`.
+- **Остальное от второй сессии 10.10** (меню отладки «Сюжет», ожидание у старосты 300 с, два слота оружия и кнопка ножа, КПК на клавише M) — в git и ADR, принято Ринатом.
+- **Рабочие копии** `E:/ContrarySurvior/ws-weapons` и `ws-pda` не удалены. Полный прогон автопроверок перезаписывает сохранение игрока — перед прогоном копия, после — возврат.
+- **Замечено, не чинилось:** строка задания в две строки может касаться кнопок сумки и «КПК»; подложка окна сумки на 16:9 выходит за правый край на 17; длинные названия оружия заходят на край рюкзака; `LoadGameForContinue` на герое с непустой сумкой задваивает вещи; GDD ч.5 ставит логово и бандитов не там, где они в игре.
+
+
+**⏸ НЕ ЗАКОНЧЕНО на конец третьей сессии 10.10 (закрыта по лимиту):**
+- Игра: `feature/session3-1010` = `8450aad` на сервере (принято Ринатом вживую: шлагбаум, слот оружия, реплики, карта с открытием; последний коммит — его уровень из редактора). Редактор оставлен открытым.
+- Окно смартфона (крупнее, кнопки «+» и «−», щипок, подложка, значок вместо «КПК»): ветка `feature/pda-phone-1010` = `e0c51c8`, копия `ws-weapons`, НЕЗАВЕРШЕНО, НЕ СОБРАНО, НЕ ПРОВЕРЕНО; постановка — в моих сообщениях программисту, картинки и отступы экрана — `assets/pda_phone_chatgpt/` (`T_PdaPhone.png` 1536×824, отступы 0,0911; 0,1165; 0,0788; 0,1274; `T_PdaButtonIcon.png`). Заметки программиста, если успел: `context/cpp-dev/notes-pda-phone-1010.md`.
+- Облезлость краски УАЗа: неисправность в коде НЕ найдена (`context/cpp-dev/notes-uaz-paint-1010.md`, ветка `fix/uaz-paint-1010` = `8ed2948`, только автопроверка, не слита). Ждёт ответа Рината: где меняет значение (машина на уровне или чертёж) и как смотрит игру.
+
+**Задача ПОСЛЕ выпуска (Ринат, 11.10):** подготовить переход со статистики GameAnalytics на Яндекс AppMetrica (официальная библиотека для Android `appmetrica/appmetrica-sdk-android`, выгрузка сырых событий `yandexmobile/appmetrica-logsapi-loader`; дополнения для Unreal нет — подключать как рекламу Яндекса; цена и ограничения НЕ ПРОВЕРЕНЫ).
+**Вторая задача ПОСЛЕ выпуска (Ринат, 11.10):** сделать свои навыки (скилы) под нашу работу — «сборка под телефон и выпуск в RuStore», «загрузка модели в проект», «прогон автопроверок»; учесть, что из специалистов инструмент вызова навыков есть только у художника.
+
+**Следующий шаг:** осмотр Рината в редакторе (шлагбаум с ноутбуком и без, карта на M, окно сумки, реплики в новой игре) → правки → сборка под телефон → qa-гейт и master.
+
+

diff --git a/context/qa/context.md b/context/qa/context.md
@@ -1,11 +1,11 @@
 # context: qa
 
 ## 🧭 СЕЙЧАС
-- 2026-10-10 проверка слитой ветки `feature/session3-1010` (вершина aa3e2d3, основная копия): все пять пунктов прошли. Дерево не трогал, ничего не коммитил.
-- Сборка редактора настоящая: 19 шагов Compile, Link dll, EXIT=0 (`logs/build_session3_1010.log`).
-- Проверки: 250 Success / 0 иных = 250 макросов на aa3e2d3; состав = 242 общих + 3 Barrier + 5 Pda (`logs/tests_session3_1010_full.log`). С отрисовкой (D3D12, `-RenderOffscreen`) 12 из 12 `ContrarySurvivor.Pda` (`tests_session3_1010_render.log`).
-- Полный прогон СНОВА испортил `ContrarySave.sav` (до `6cd26bb7…`, после `50303e17…`), восстановлен из копии, хеш совпал. Прогон `ContrarySurvivor.Pda` сохранение не трогает.
-- Генератор окон `-augment`: «сохранено 0, ошибок 0, всего ассетов 22». Таблица заданий совпала с образцом `logs/dt_quests_dialogs_1010.txt` (способ выгрузки — скрипт `dt_quests.py dump <файл>` через `-ExecutePythonScript`, лежит во временной папке сессии, не в репо).
+- 2026-10-11 ревью ветки `feature/pda-phone-1010` (вершина 3187101, копия `E:/ContrarySurvior/ws-weapons`, база сравнения 266d8ed): вердикт «добро». Дерево не трогал, ничего не коммитил.
+- Сборка редактора: EXIT=0, 3 шага Compile (блоки Module.ContrarySurvivor.18/21/22) + Link dll обоих модулей (`logs/qa_build_pdaphone_1011.log`). Полной перекомпиляции с нуля не было.
+- Проверки: 256 Success / 0 иных = 256 макросов на 3187101, `TEST COMPLETE. EXIT CODE: 0`, `GIsCriticalError=0` (`logs/qa_tests_pdaphone_1011.log`). Только `-nullrhi`, с отрисовкой не гонял.
+- Полный прогон СНОВА испортил `ContrarySave.sav` в этой копии (до `3e99e746…`, после `86c5c5ff…`), восстановлен из копии, хеш совпал.
+- Меню отладки целиком под `CONTRARY_WITH_QA_CHEATS` = `(1 && !UE_BUILD_SHIPPING)` (`Debug/QADebug.h:21`) — новый телепорт в магазинную сборку не попадает.
 - Из Git Bash сборку звать так: `cd Engine/Build/BatchFiles && MSYS_NO_PATHCONV=1 cmd.exe /c ".\Build.bat ..."` (без `.\` cmd не находит файл).
 - Следующий шаг: за game-lead.
 
